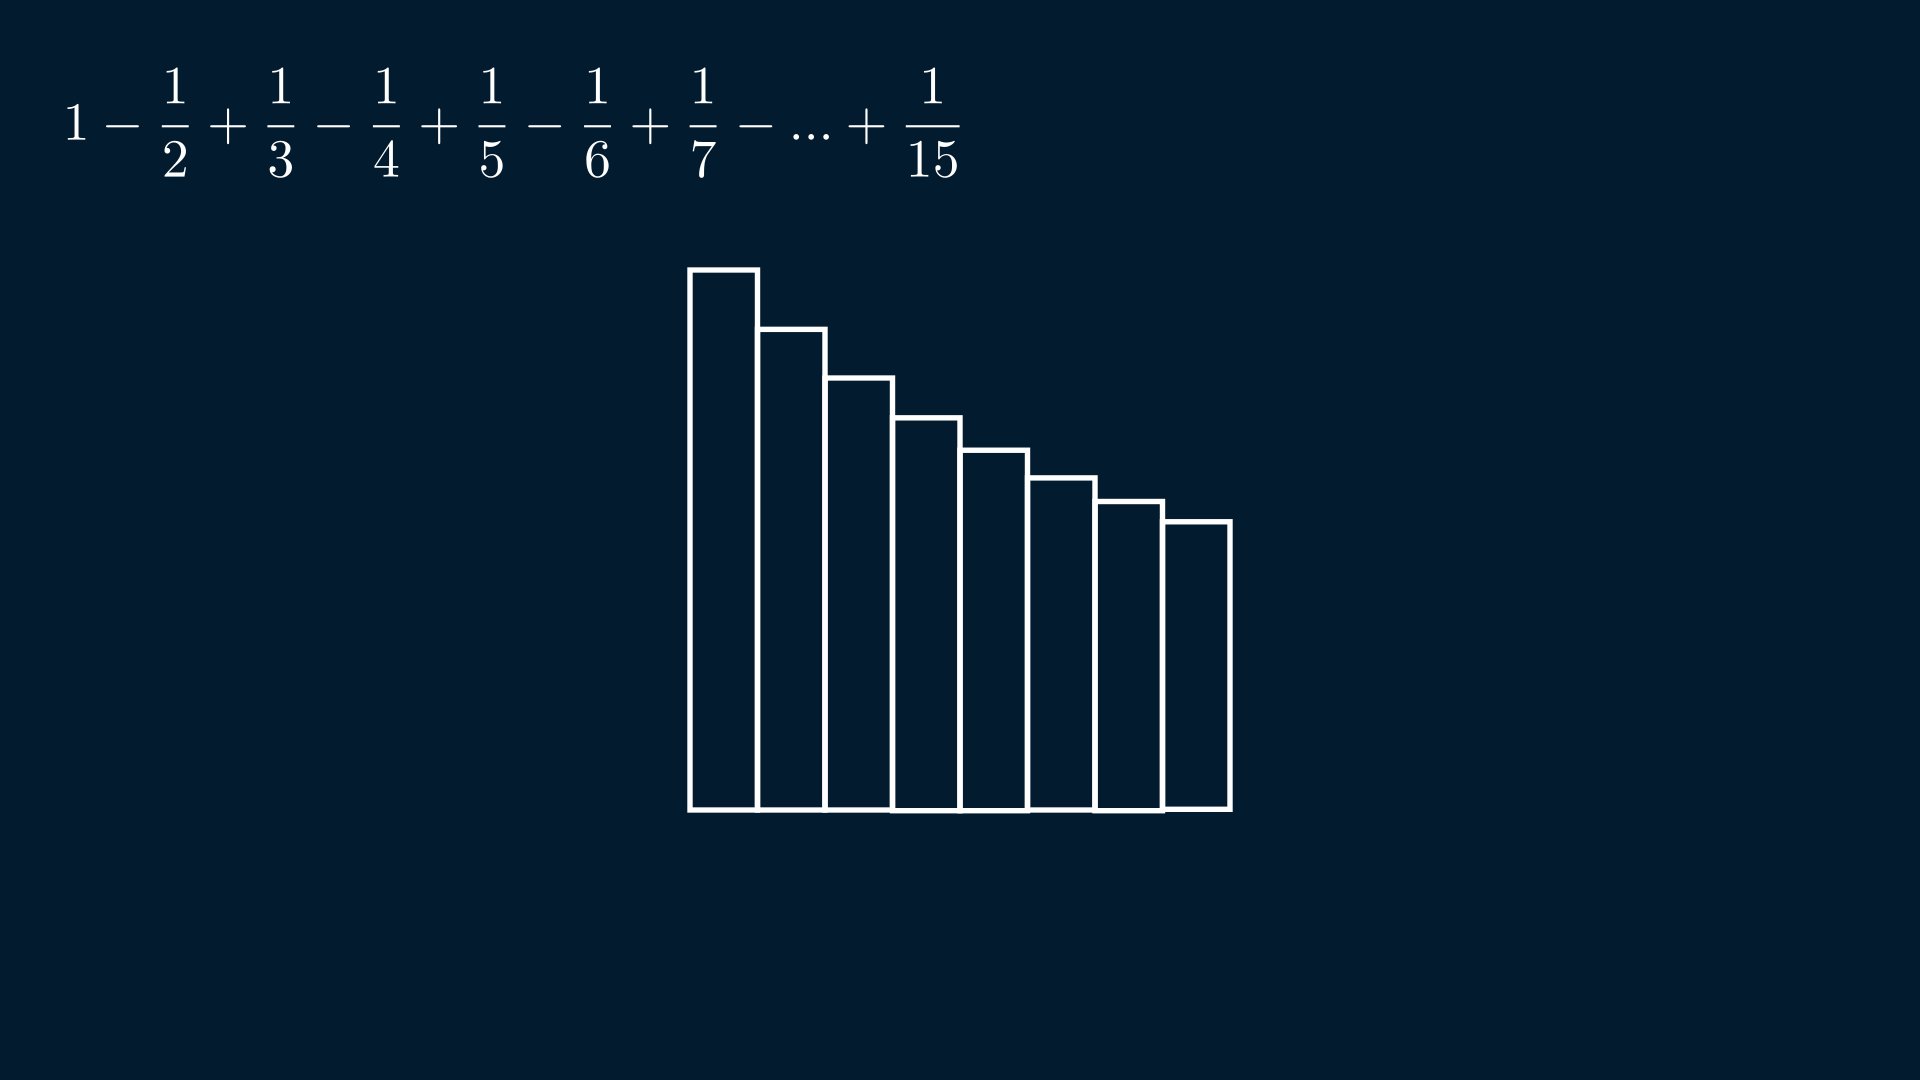
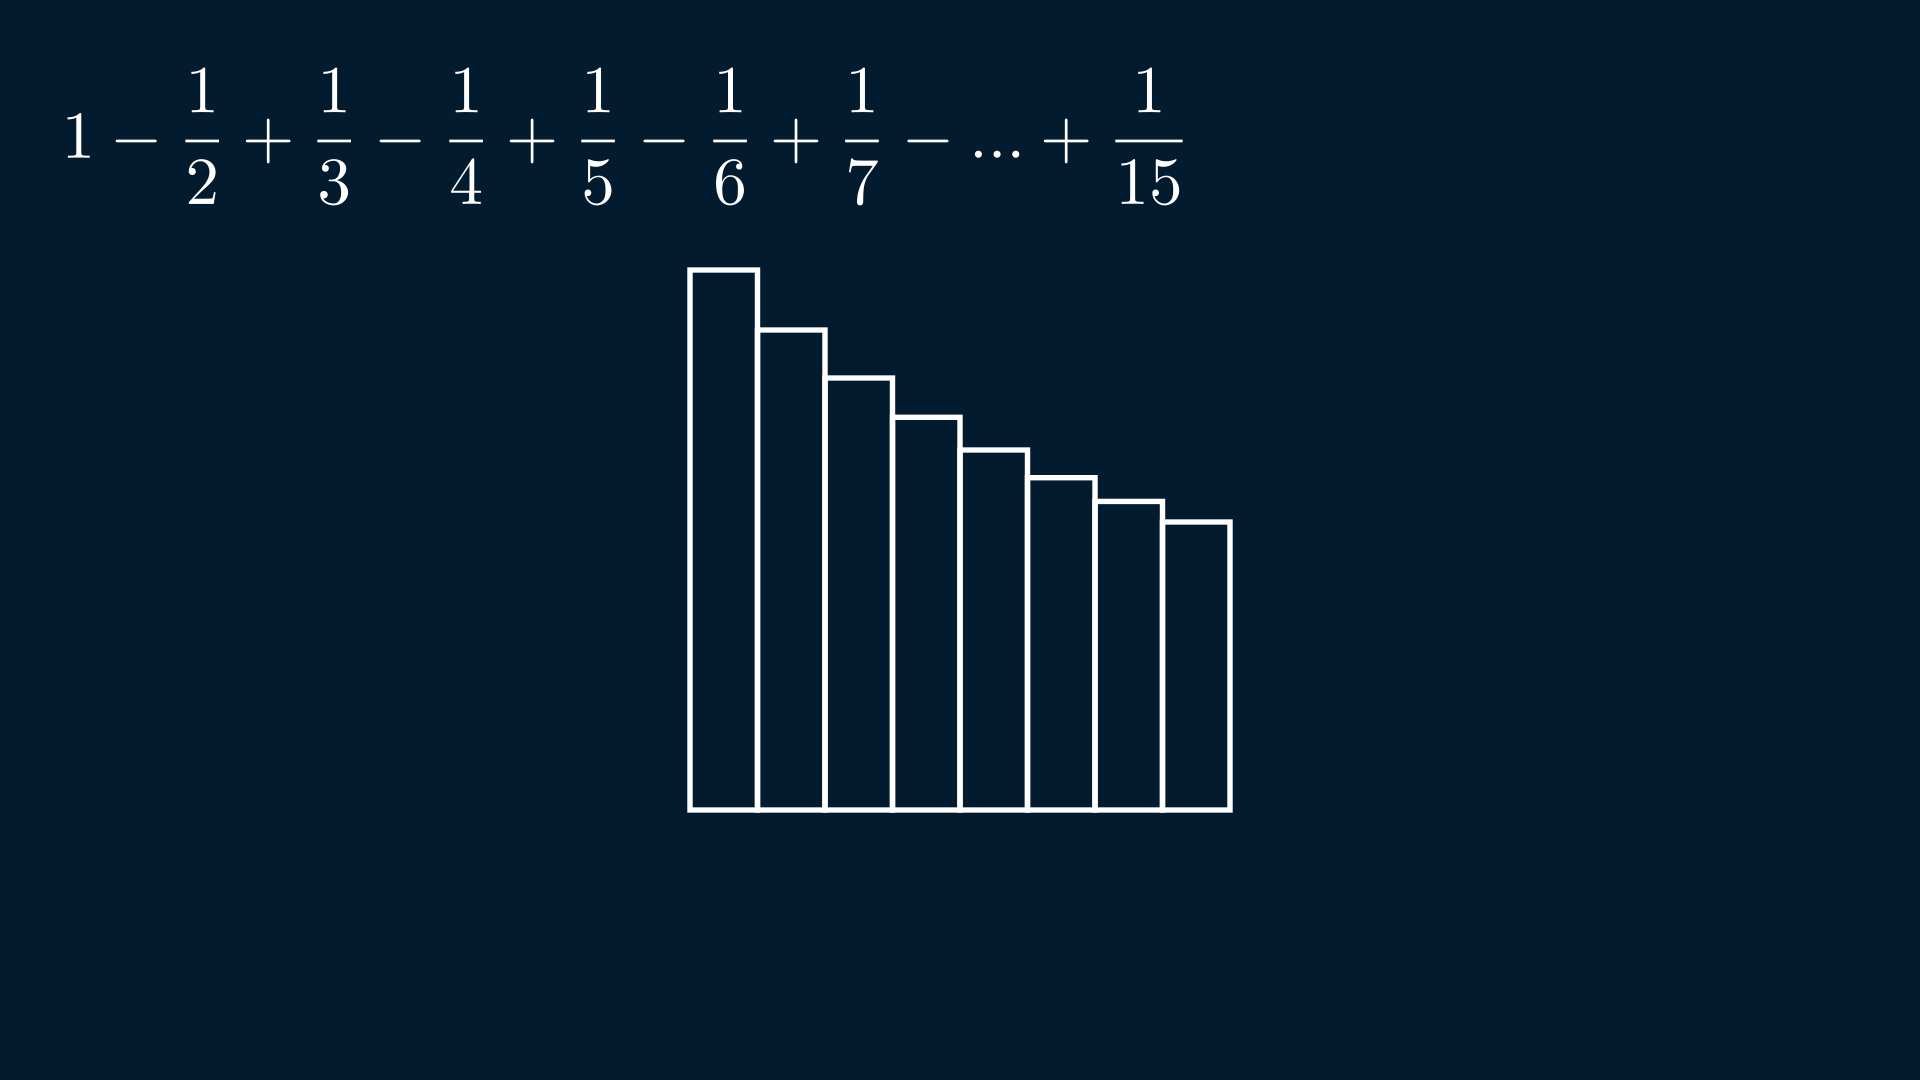
AlternatingHarmonicSeries compacter opgeschreven met for loops.

diff --git a/plaatjespresentatie/AlternatingHarmonicSeries.py b/plaatjespresentatie/AlternatingHarmonicSeries.py
@@ -231,39 +231,29 @@ class Slide12(Scene):
 class Slide13(Scene):
     def construct(self):
         self.camera.background_color = BACKGROUND
-        rect1 = Rectangle(width=1.0, height=4.0, stroke_color=WHITE).shift(LEFT * 1.5)
-        rect2 = Rectangle(width=1.0, height=3.2, stroke_color=WHITE).shift(LEFT * .5).shift(DOWN * .4)
-        rect3 = Rectangle(width=1.0, height=2.67, stroke_color=WHITE).shift(RIGHT * .5).shift(DOWN * .67)
-        rect4 = Rectangle(width=1.0, height=2.29, stroke_color=WHITE).shift(RIGHT * 1.5).shift(DOWN * .86)
-        text = MathTex(r"1-\frac{1}{2}+\frac{1}{3}-\frac{1}{4}+\frac{1}{5}-\frac{1}{6}+\frac{1}{7}", color=WHITE).to_edge(UL)
 
-        self.add(rect1)
-        self.add(rect2)
-        self.add(rect3)
-        self.add(rect4)
+        for i in range(4):
+            height = 4.0 * 4 / (4 + i)
+            rect = Rectangle(width=1.0, height=height)
+            rect.shift(LEFT * (1.5 - i))
+            rect.shift(DOWN * (.5 * (4 - height)))
+            self.add(rect)
+
+        text = MathTex(r"1-\frac{1}{2}+\frac{1}{3}-\frac{1}{4}+\frac{1}{5}-\frac{1}{6}+\frac{1}{7}", color=WHITE).to_edge(UL)
         self.add(text)
 
 class Slide14(Scene):
     def construct(self):
         self.camera.background_color = BACKGROUND
-        rect1 = Rectangle(width=.5, height=4.0, stroke_color=WHITE).shift(LEFT * 1.75) # 1
-        rect2 = Rectangle(width=.5, height=3.56, stroke_color=WHITE).shift(LEFT * 1.25).shift(DOWN * .22) # 8/9
-        rect3 = Rectangle(width=.5, height=3.2, stroke_color=WHITE).shift(LEFT * .75).shift(DOWN * .4) # 8/10
-        rect4 = Rectangle(width=.5, height=2.91, stroke_color=WHITE).shift(LEFT * .25).shift(DOWN * .55) # 8/11
-        rect5 = Rectangle(width=.5, height=2.67, stroke_color=WHITE).shift(RIGHT * .25).shift(DOWN * .67) # 8/12
-        rect6 = Rectangle(width=.5, height=2.46, stroke_color=WHITE).shift(RIGHT * .75).shift(DOWN * .77) # 8/13
-        rect7 = Rectangle(width=.5, height=2.29, stroke_color=WHITE).shift(RIGHT * 1.25).shift(DOWN * .86) # 8/14
-        rect8 = Rectangle(width=.5, height=2.13, stroke_color=WHITE).shift(RIGHT * 1.75).shift(DOWN * .93) # 8/15
-        text = MathTex(r"1-\frac{1}{2}+\frac{1}{3}-\frac{1}{4}+\frac{1}{5}-\frac{1}{6}+\frac{1}{7}-...+\frac{1}{15}", color=WHITE).scale(.8).to_edge(UL)
 
-        self.add(rect1)
-        self.add(rect2)
-        self.add(rect3)
-        self.add(rect4)
-        self.add(rect5)
-        self.add(rect6)
-        self.add(rect7)
-        self.add(rect8)
+        for i in range(8):
+            height = 4.0 * 8 / (8 + i)
+            rect = Rectangle(width=.5, height=height)
+            rect.shift(LEFT * (1.75 - i * .5))
+            rect.shift(DOWN * (.5 * (4 - height)))
+            self.add(rect)
+
+        text = MathTex(r"1-\frac{1}{2}+\frac{1}{3}-\frac{1}{4}+\frac{1}{5}-\frac{1}{6}+\frac{1}{7}-...+\frac{1}{15}", color=WHITE).to_edge(UL)
         self.add(text)
 
 class Slide15(Scene):
